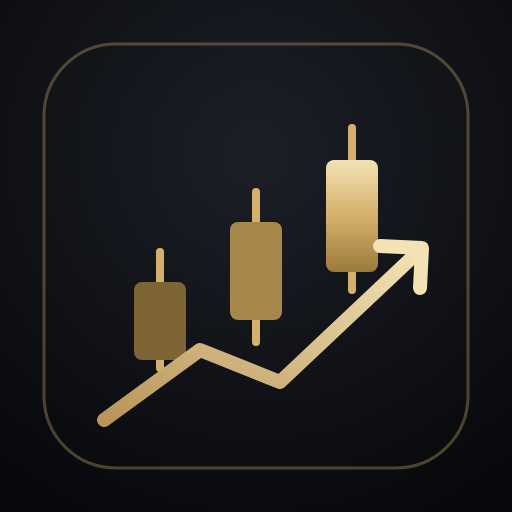
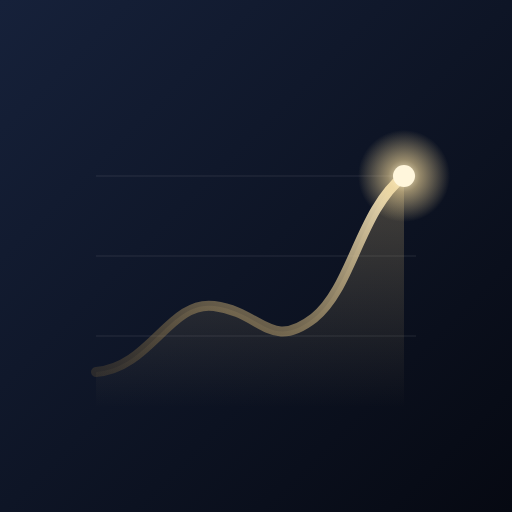
アイコンを「金の線（スッキリ）」のデザインにする
Claude-Session: https://claude.ai/code/session_01FSj7ZcwZT9boLcTxXpZSgJ

diff --git a/market-analyzer/public/index.html b/market-analyzer/public/index.html
@@ -12,7 +12,7 @@
   <title>相場分析ノート</title>
   <link rel="manifest" href="/manifest.webmanifest">
   <link rel="icon" href="/icon.svg" type="image/svg+xml">
-  <link rel="apple-touch-icon" href="/icon-180.png?v=2">
+  <link rel="apple-touch-icon" href="/icon-180.png?v=3">
   <link rel="stylesheet" href="/css/style.css">
   <link rel="preconnect" href="https://fonts.googleapis.com">
   <link rel="preconnect" href="https://fonts.gstatic.com" crossorigin>
